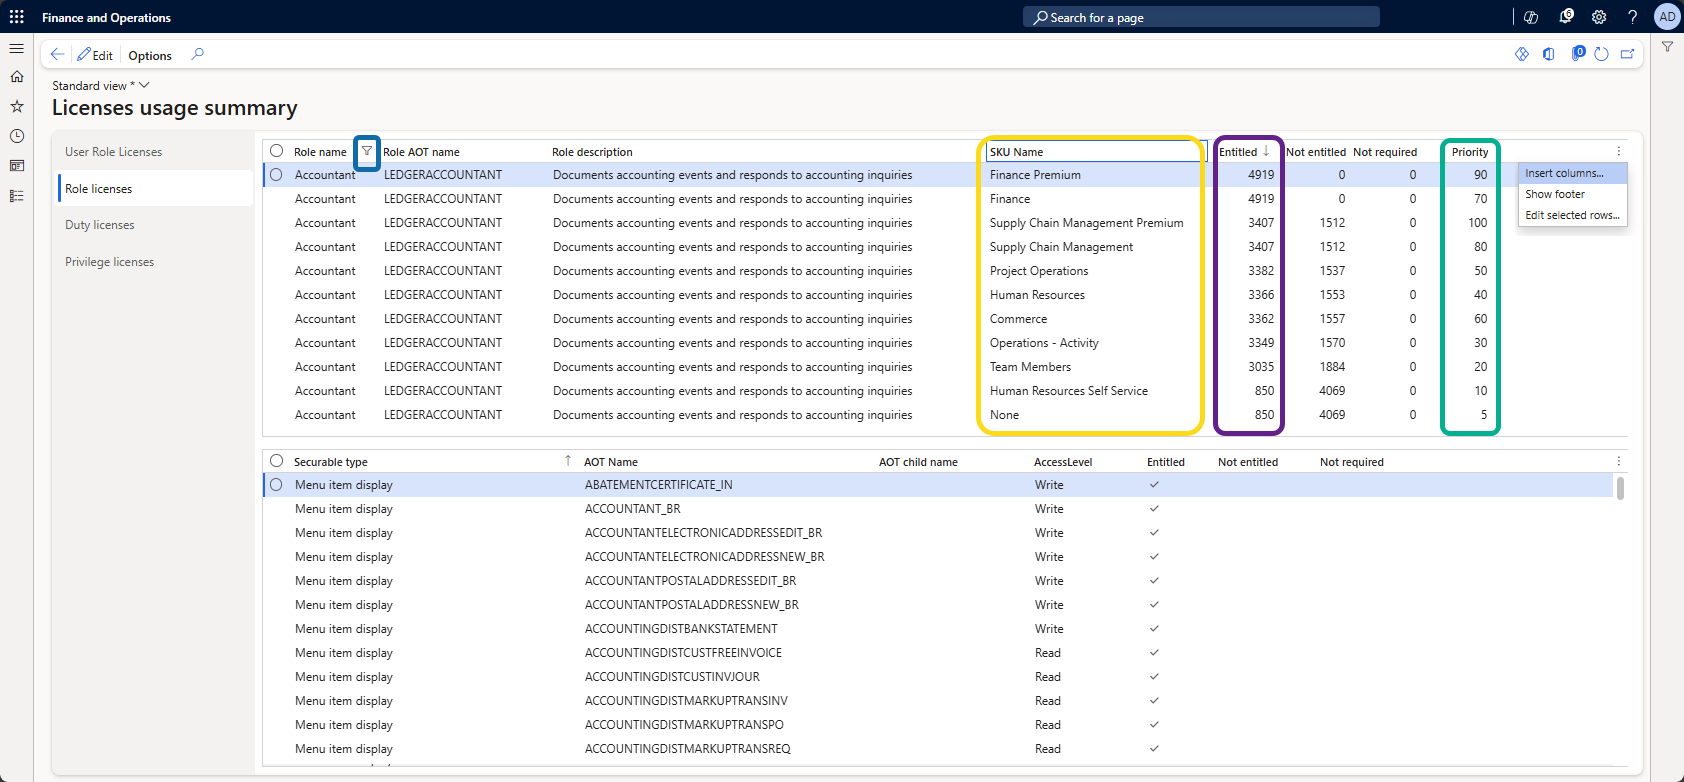
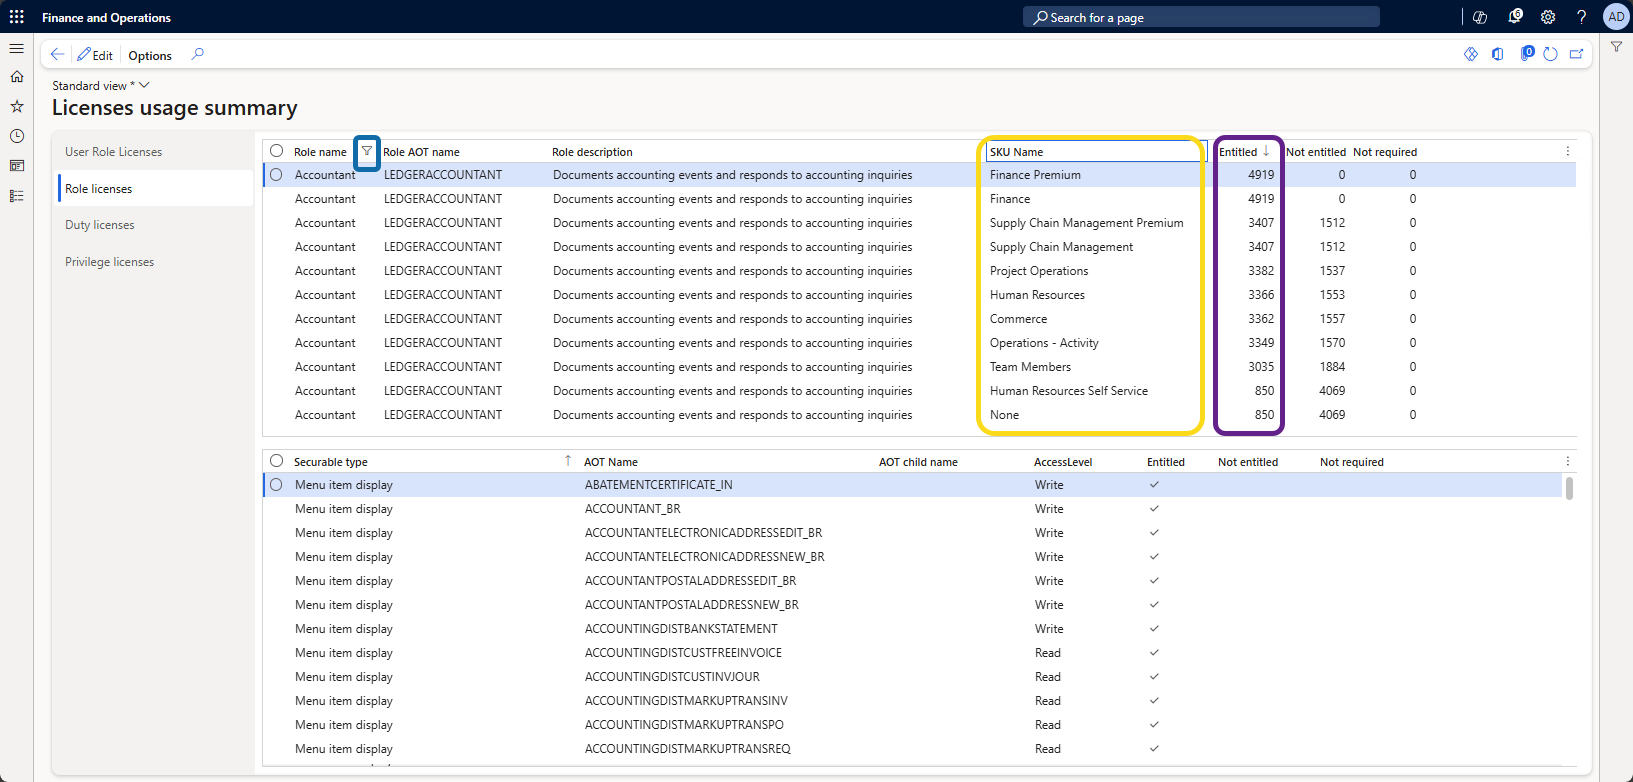
Updates to screenshot and content based on PG feedback

diff --git a/articles/fin-ops-core/fin-ops/sysadmin/security-gov-license-usage-summary.md b/articles/fin-ops-core/fin-ops/sysadmin/security-gov-license-usage-summary.md
@@ -23,7 +23,6 @@ The **Security Governance License Usage Summary** is a tool in Dynamics 365 Fina
 This information helps your organization:
 
 - **Confirm that security roles are configured for required licenses** for the tasks users perform.
-- **Identify when a security role is too broad or high-level**, causing a user to need a more expensive license than expected.
 - **Align security roles with internal controls and compliance** by revealing which permissions drive certain license requirements.
 - **Plan and optimize license requirements** by providing a clear view of how security roles drive required licenses.
 
@@ -54,7 +53,7 @@ Before you access the **User security governance** workspace, activate it in **F
 :::image type="content" source="media/security-governance-license-usage-summary-feature-enabled.png" alt-text="Security governance features enabled in the system admin user experience." lightbox="media/security-governance-license-usage-summary-feature-enabled.png":::
 
 > [!IMPORTANT]
-> The **Security Governance** feature and **User Security Governance license usage summary report** are available only in versions [10.0.44](/dynamics365/fin-ops-core/dev-itpro/get-started/quality-updates-schedule?context=%2Fdynamics365%2Fcontext%2Fcommerce#high-level-pqu-train-schedule) and later.
+> The **Security Governance** feature and **User Security Governance license usage summary report** are available only in versions [10.0.43](/dynamics365/fin-ops-core/dev-itpro/get-started/quality-updates-schedule?context=%2Fdynamics365%2Fcontext%2Fcommerce#high-level-pqu-train-schedule) and later.
 
 :::image type="content" source="media/security-governance-version-info.png" alt-text="Security governance version info." lightbox="media/security-governance-version-info.png":::
 
@@ -120,7 +119,6 @@ Key columns in the **Role Licenses** view:
 
 - **SKU Name** - The lowest-level Dynamics 365 license that covers all configured security objects in the role. If the role's permissions include any function that requires a higher license, that higher license with the calculated **Entitled** security objects appears.
 
-- **Priority** - The **Priority** column shows the specific order the system uses to evaluate licenses, and which SKU acts as the base license when more than one base SKU is involved. **Priority** is a global ordered list, and a **higher-priority SKU isn't guaranteed to be a superset of a lower-priority SKU for every role**. This condition explains why a higher-priority SKU can still show **Not entitled** for some objects, and why some roles can require a combination of base plus attach SKUs.
 
 **Entitlement counts** - For the required license, the role's configured security objects are broken down into three categories:
 
@@ -131,11 +129,6 @@ Key columns in the **Role Licenses** view:
 This breakdown helps you understand why a role requires the license it does.
 
 :::image type="content" source="media/security-governance-license-usage-role-filter-priority.png" alt-text="Role Licenses filtered with priority column included." lightbox="media/security-governance-license-usage-role-filter-priority.png":::
-
->[!Note]
-> In the preceding screenshot, **Supply Chain Management Premium** shows **Priority is 100** and **Finance Premium** shows **Priority is 90**. Priority reflects the global SKU order, not the best match for the Accountant role.
->
-> If **Finance** \ **Finance Premium** fully covers the Accountant role's securable objects (**Not Entitled = 0**), then it remains the right license for that role even though **Supply Chain Management Premium** can still be a valid license.
 
 ## Securable object license classification
 
